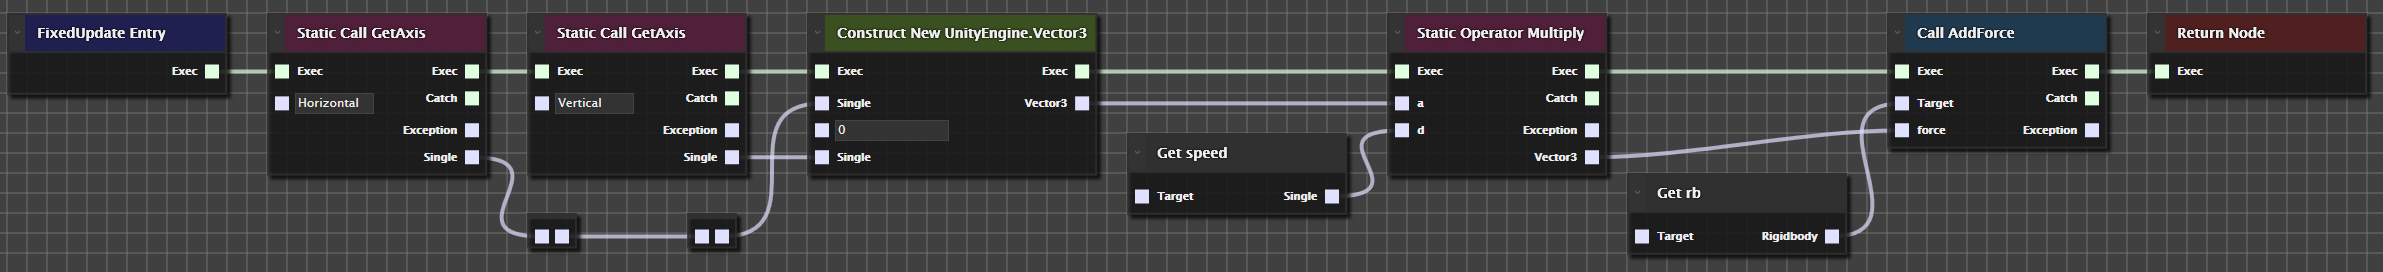
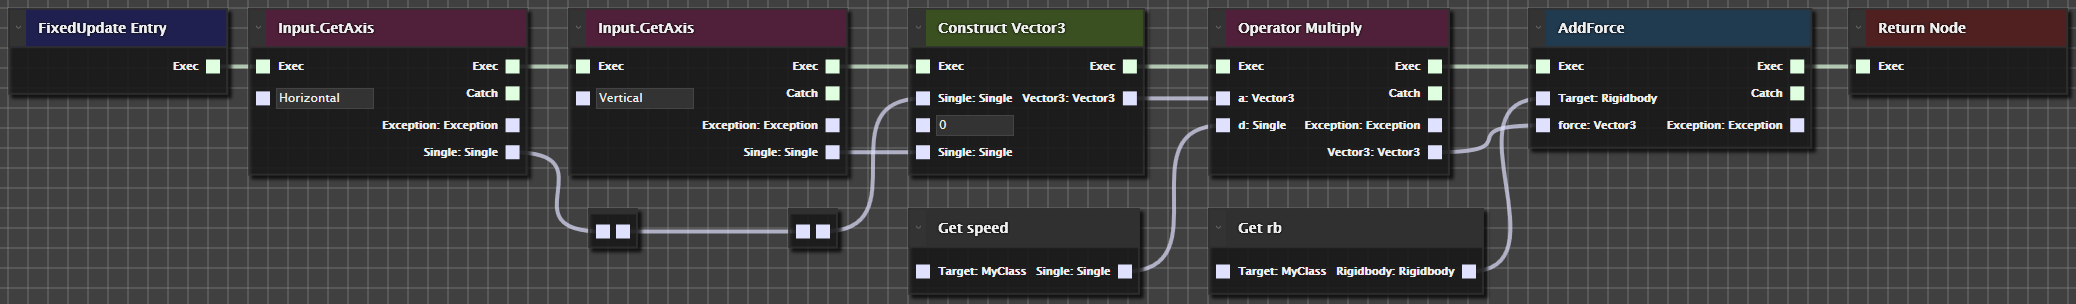
updated to netprints 0.0.3

diff --git a/Assets/NetPrints/Compiled_NetPrintsUnityTutorial/PlayerController.cs b/Assets/NetPrints/Compiled_NetPrintsUnityTutorial/PlayerController.cs
@@ -4,6 +4,28 @@ namespace NetPrintsUnityTutorial
                 {
                     public System.Single speed;
 UnityEngine.Rigidbody rb;
+void Start()
+{
+System.Exception varException;
+UnityEngine.Rigidbody varT;
+UnityEngine.Rigidbody varRigidbody;
+
+goto State0;
+
+State0:
+varT = this.GetComponent<UnityEngine.Rigidbody>();
+goto State1;
+
+State1:
+this.rb = varT;
+varRigidbody = varT;
+goto State2;
+
+State2:
+return;
+
+}
+
 void FixedUpdate()
 {
 System.Exception varException;
@@ -46,40 +68,6 @@ varRigidbody.AddForce(varVector32);
 goto State5;
 
 State5:
-return;
-
-}
-
-void Start()
-{
-System.Exception varException;
-UnityEngine.Component varComponent;
-UnityEngine.Rigidbody varCastObject;
-UnityEngine.Rigidbody varRigidbody;
-System.Type varType;
-
-goto State0;
-
-State0:
-varType = typeof(UnityEngine.Rigidbody);
-varComponent = this.GetComponent(varType);
-goto State1;
-
-State1:
-if (varComponent is UnityEngine.Rigidbody)
-{
-varCastObject = (UnityEngine.Rigidbody)varComponent;
-goto State2;
-}
-else
-return;
-
-State2:
-this.rb = varCastObject;
-varRigidbody = varCastObject;
-goto State3;
-
-State3:
 return;
 
 }

diff --git a/README.md b/README.md
@@ -10,11 +10,11 @@ This is an example of how to use [NetPrints](https://github.com/RobinKa/NetPrint
 
 ![](https://raw.githubusercontent.com/RobinKa/NetPrintsUnityTutorial/master/Screenshots/Assemblies.png)
 
-3. Unity can use either our generated .NET binary or C# source code. The source code has the advantage that we can debug our generated code. Furthermore there are some bugs in Unity with generated .NET binaries and MonoBehaviour inheritance. Set the output mode to `SourceCode` which will output only the source code. Then press `New Class` which will add a new empty class to our project. You can open it by clicking on it. In the class settings it is possible to change the class name, its namespace and some other interesting properties. Set the base class to `UnityEngine.MonoBehaviour`.
+3. Unity can use either our generated .NET binary or C# source code. The source code has the advantage that we can debug our generated code. Furthermore there are some bugs in Unity with generated .NET binaries and `MonoBehaviour` inheritance. Set the output mode to `SourceCode` which will output only the source code. Then press `New Class` which will add a new empty class to our project. You can open it by clicking on it. In the class settings it is possible to change the class name, its namespace and some other interesting properties. Set the base class to `UnityEngine.MonoBehaviour`.
 
 ![](https://raw.githubusercontent.com/RobinKa/NetPrintsUnityTutorial/master/Screenshots/MainMenu.png)
 
-4. Add the `Update()` and `Start()` methods. Also create the `rb` (type `UnityEngine.Rigidbody`) and `speed` (type `System.Single`, which is the same as `float`). Mark the `speed` attribute as public by clicking on it and checking the `Public` checkbox on the right side of the editor.
+4. Add the `FixedUpdate()` and `Start()` methods. Also create the `rb` (type `UnityEngine.Rigidbody`) and `speed` (type `System.Single`, which is the same as `float`). Mark the `speed` attribute as public by clicking on it and checking the `Public` checkbox on the right side of the editor.
 
 ![](https://raw.githubusercontent.com/RobinKa/NetPrintsUnityTutorial/master/Screenshots/MethodsAttributes.png)
 
